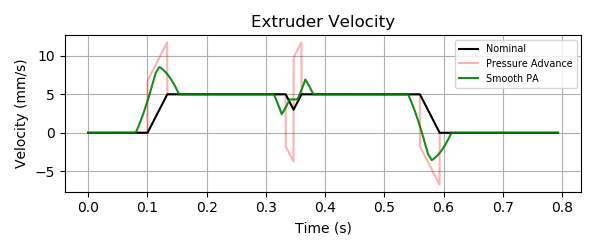
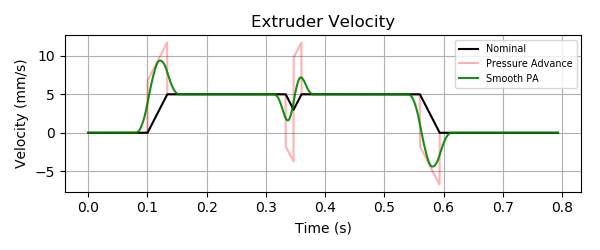
kin_extruder: Convert pressure advance to use "weighted average"

diff --git a/klippy/chelper/kin_extruder.c b/klippy/chelper/kin_extruder.c
@@ -12,55 +12,90 @@
 #include "pyhelper.h" // errorf
 #include "trapq.h" // move_get_distance
 
-// Calculate the definitive integral of the move distance
+// Without pressure advance, the extruder stepper position is:
+//     extruder_position(t) = nominal_position(t)
+// When pressure advance is enabled, additional filament is pushed
+// into the extruder during acceleration (and retracted during
+// deceleration). The formula is:
+//     pa_position(t) = (nominal_position(t)
+//                       + pressure_advance * nominal_velocity(t))
+// Which is then "smoothed" using a weighted average:
+//     smooth_position(t) = (
+//         definitive_integral(pa_position(x) * (smooth_time/2 - abs(t-x)) * dx,
+//                             from=t-smooth_time/2, to=t+smooth_time/2)
+//         / ((smooth_time/2)**2))
+
+// Calculate the definitive integral of the motion formula:
+//   position(t) = base + t * (start_v + t * half_accel)
 static double
-move_integrate_distance(struct move *m, double start, double end)
+extruder_integrate(double base, double start_v, double half_accel
+                   , double start, double end)
 {
-    double half_v = .5 * m->start_v, sixth_a = (1. / 3.) * m->half_accel;
-    double si = start * start * (half_v + sixth_a * start);
-    double ei = end * end * (half_v + sixth_a * end);
+    double half_v = .5 * start_v, sixth_a = (1. / 3.) * half_accel;
+    double si = start * (base + start * (half_v + start * sixth_a));
+    double ei = end * (base + end * (half_v + end * sixth_a));
     return ei - si;
 }
 
-// Calculate the definitive integral of extruder with pressure advance
+// Calculate the definitive integral of time weighted position:
+//   weighted_position(t) = t * (base + t * (start_v + t * half_accel))
 static double
-pa_move_integrate(struct move *m, double start, double end)
+extruder_integrate_time(double base, double start_v, double half_accel
+                        , double start, double end)
+{
+    double half_b = .5 * base, third_v = (1. / 3.) * start_v;
+    double eighth_a = .25 * half_accel;
+    double si = start * start * (half_b + start * (third_v + start * eighth_a));
+    double ei = end * end * (half_b + end * (third_v + end * eighth_a));
+    return ei - si;
+}
+
+// Calculate the definitive integral of extruder for a given move
+static double
+pa_move_integrate(struct move *m, double start, double end, double time_offset)
 {
     if (start < 0.)
         start = 0.;
     if (end > m->move_t)
         end = m->move_t;
+    // Calculate base position and velocity with pressure advance
     double pressure_advance = m->axes_r.y;
-    double avg_v = m->start_v + (start + end) * m->half_accel;
-    double pa_add = pressure_advance * avg_v;
-    double base = (m->start_pos.x + pa_add) * (end - start);
-    return base + move_integrate_distance(m, start, end);
+    double base = m->start_pos.x + pressure_advance * m->start_v;
+    double start_v = m->start_v + pressure_advance * 2. * m->half_accel;
+    // Calculate definitive integral
+    double ha = m->half_accel;
+    double iext = extruder_integrate(base, start_v, ha, start, end);
+    double wgt_ext = extruder_integrate_time(base, start_v, ha, start, end);
+    return wgt_ext - time_offset * iext;
 }
 
 // Calculate the definitive integral of the extruder over a range of moves
 static double
-pa_range_integrate(struct move *m, double start, double end)
+pa_range_integrate(struct move *m, double move_time, double hst)
 {
-    double res = pa_move_integrate(m, start, end);
+    // Calculate integral for the current move
+    double res = 0., start = move_time - hst, end = move_time + hst;
+    res += pa_move_integrate(m, start, move_time, start);
+    res -= pa_move_integrate(m, move_time, end, end);
     // Integrate over previous moves
     struct move *prev = m;
     while (unlikely(start < 0.)) {
         prev = list_prev_entry(prev, node);
         start += prev->move_t;
-        res += pa_move_integrate(prev, start, prev->move_t);
+        res += pa_move_integrate(prev, start, prev->move_t, start);
     }
     // Integrate over future moves
     while (unlikely(end > m->move_t)) {
         end -= m->move_t;
         m = list_next_entry(m, node);
-        res += pa_move_integrate(m, 0., end);
+        res -= pa_move_integrate(m, 0., end, end);
     }
     return res;
 }
 
 struct extruder_stepper {
     struct stepper_kinematics sk;
-    double half_smooth_time, inv_smooth_time;
+    double half_smooth_time, inv_half_smooth_time2;
 };
 
 static double
@@ -73,8 +108,8 @@ extruder_calc_position(struct stepper_kinematics *sk, struct move *m
         // Pressure advance not enabled
         return m->start_pos.x + move_get_distance(m, move_time);
     // Apply pressure advance and average over smooth_time
-    double area = pa_range_integrate(m, move_time - hst, move_time + hst);
-    return area * es->inv_smooth_time;
+    double area = pa_range_integrate(m, move_time, hst);
+    return area * es->inv_half_smooth_time2;
 }
 
 void __visible
@@ -86,7 +121,7 @@ extruder_set_smooth_time(struct stepper_kinematics *sk, double smooth_time)
     es->sk.gen_steps_pre_active = es->sk.gen_steps_post_active = hst;
     if (! hst)
         return;
-    es->inv_smooth_time = 1. / smooth_time;
+    es->inv_half_smooth_time2 = 1. / (hst * hst);
 }
 
 struct stepper_kinematics * __visible

diff --git a/scripts/graph_extruder.py b/scripts/graph_extruder.py
@@ -67,13 +67,16 @@ def calc_pa_raw(t, positions):
     i = time_to_index(t)
     return positions[i] + pa * (positions[i+1] - positions[i])
 
-def calc_pa_smooth(t, positions):
+def calc_pa_weighted(t, positions):
+    base_index = time_to_index(t)
     start_index = time_to_index(t - PA_HALF_SMOOTH_T) + 1
     end_index = time_to_index(t + PA_HALF_SMOOTH_T)
+    diff = .5 * (end_index - start_index)
     pa = PRESSURE_ADVANCE * INV_SEG_TIME
-    pa_data = [positions[i] + pa * (positions[i+1] - positions[i])
+    pa_data = [(positions[i] + pa * (positions[i+1] - positions[i]))
+               * (diff - abs(i-base_index))
                for i in range(start_index, end_index)]
-    return sum(pa_data) / (end_index - start_index)
+    return sum(pa_data) / diff**2
 
 
 ######################################################################
@@ -92,7 +95,7 @@ def plot_motion():
     pa_positions = [calc_pa_raw(t, positions) for t in times]
     pa_velocities = gen_deriv(pa_positions)
     # Smoothed motion
-    sm_positions = [calc_pa_smooth(t, positions) for t in times]
+    sm_positions = [calc_pa_weighted(t, positions) for t in times]
     sm_velocities = gen_deriv(sm_positions)
     # Build plot
     shift_times = [t - MARGIN_TIME for t in times]

diff --git a/docs/Kinematics.md b/docs/Kinematics.md
@@ -284,8 +284,8 @@ rate, the more filament must be pushed in during acceleration to
 account for pressure. During head deceleration the extra filament is
 retracted (the extruder will have a negative velocity).
 
-The "smoothing" is implemented by averaging the extruder position over
-a small time period (as specified by the
+The "smoothing" is implemented using a weighted average of the
+extruder position over a small time period (as specified by the
 `pressure_advance_smooth_time` config parameter). This averaging can
 span multiple g-code moves. Note how the extruder motor will start
 moving prior to the nominal start of the first extrusion move and will
@@ -294,6 +294,7 @@ continue to move after the nominal end of the last extrusion move.
 Key formula for "smoothed pressure advance":
 ```
 smooth_pa_position(t) =
-    ( definitive_integral(pa_position, from=t-smooth_time/2, to=t+smooth_time/2)
-     / smooth_time )
+    ( definitive_integral(pa_position(x) * (smooth_time/2 - abs(t - x)) * dx,
+                          from=t-smooth_time/2, to=t+smooth_time/2)
+     / (smooth_time/2)^2 )
 ```
